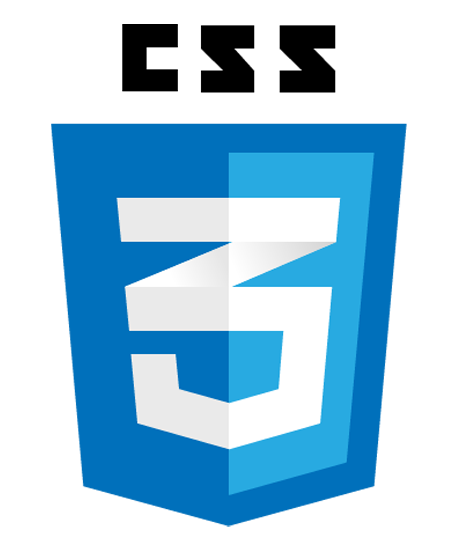
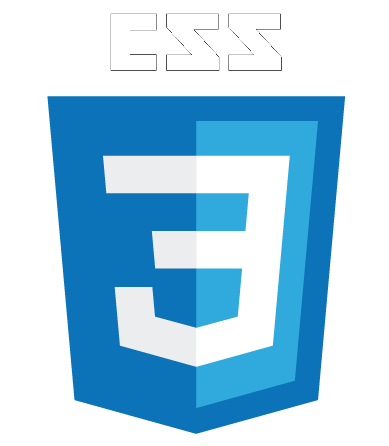
Styled badges

diff --git a/index.html b/index.html
@@ -93,10 +93,10 @@
           <img src="assets/img/badges/jQuery.png" class="img-responsive" />
         </div>
         <div class="col-lg-4 col-md-4 col-sm-4 gallery">
-          <img src="assets/img/badges/Python.png" class="img-responsive" />
+          <img src="assets/img/badges/Ruby.png" class="img-responsive" />
         </div>
         <div class="col-lg-4 col-md-4 col-sm-4 gallery">
-          <img src="assets/img/badges/Ruby.png" class="img-responsive" />
+          <img src="assets/img/badges/Python.png" class="img-responsive" />
         </div>
         <div class="col-lg-4 col-md-4 col-sm-4 gallery">
           <img src="assets/img/badges/Rails.png" class="img-responsive" />

diff --git a/assets/css/style.css b/assets/css/style.css
@@ -200,6 +200,7 @@ h1, h2, h3, h4, h5, h6 {
 	background: url(../img/rsz_space.jpg) no-repeat center top;
 	margin-top: -70px;
 	padding-top: 40px;
+  padding-bottom: 30px;
 	text-align:center;
 	background-attachment: relative;
 	background-position: center center;
@@ -247,4 +248,10 @@ h1, h2, h3, h4, h5, h6 {
 
 .portfolio-container {
   margin-top: 40px;
+}
+
+div.gallery > img.img-responsive {
+  max-height: 100px;
+  margin-left: auto;
+  margin-right: auto;
 }
